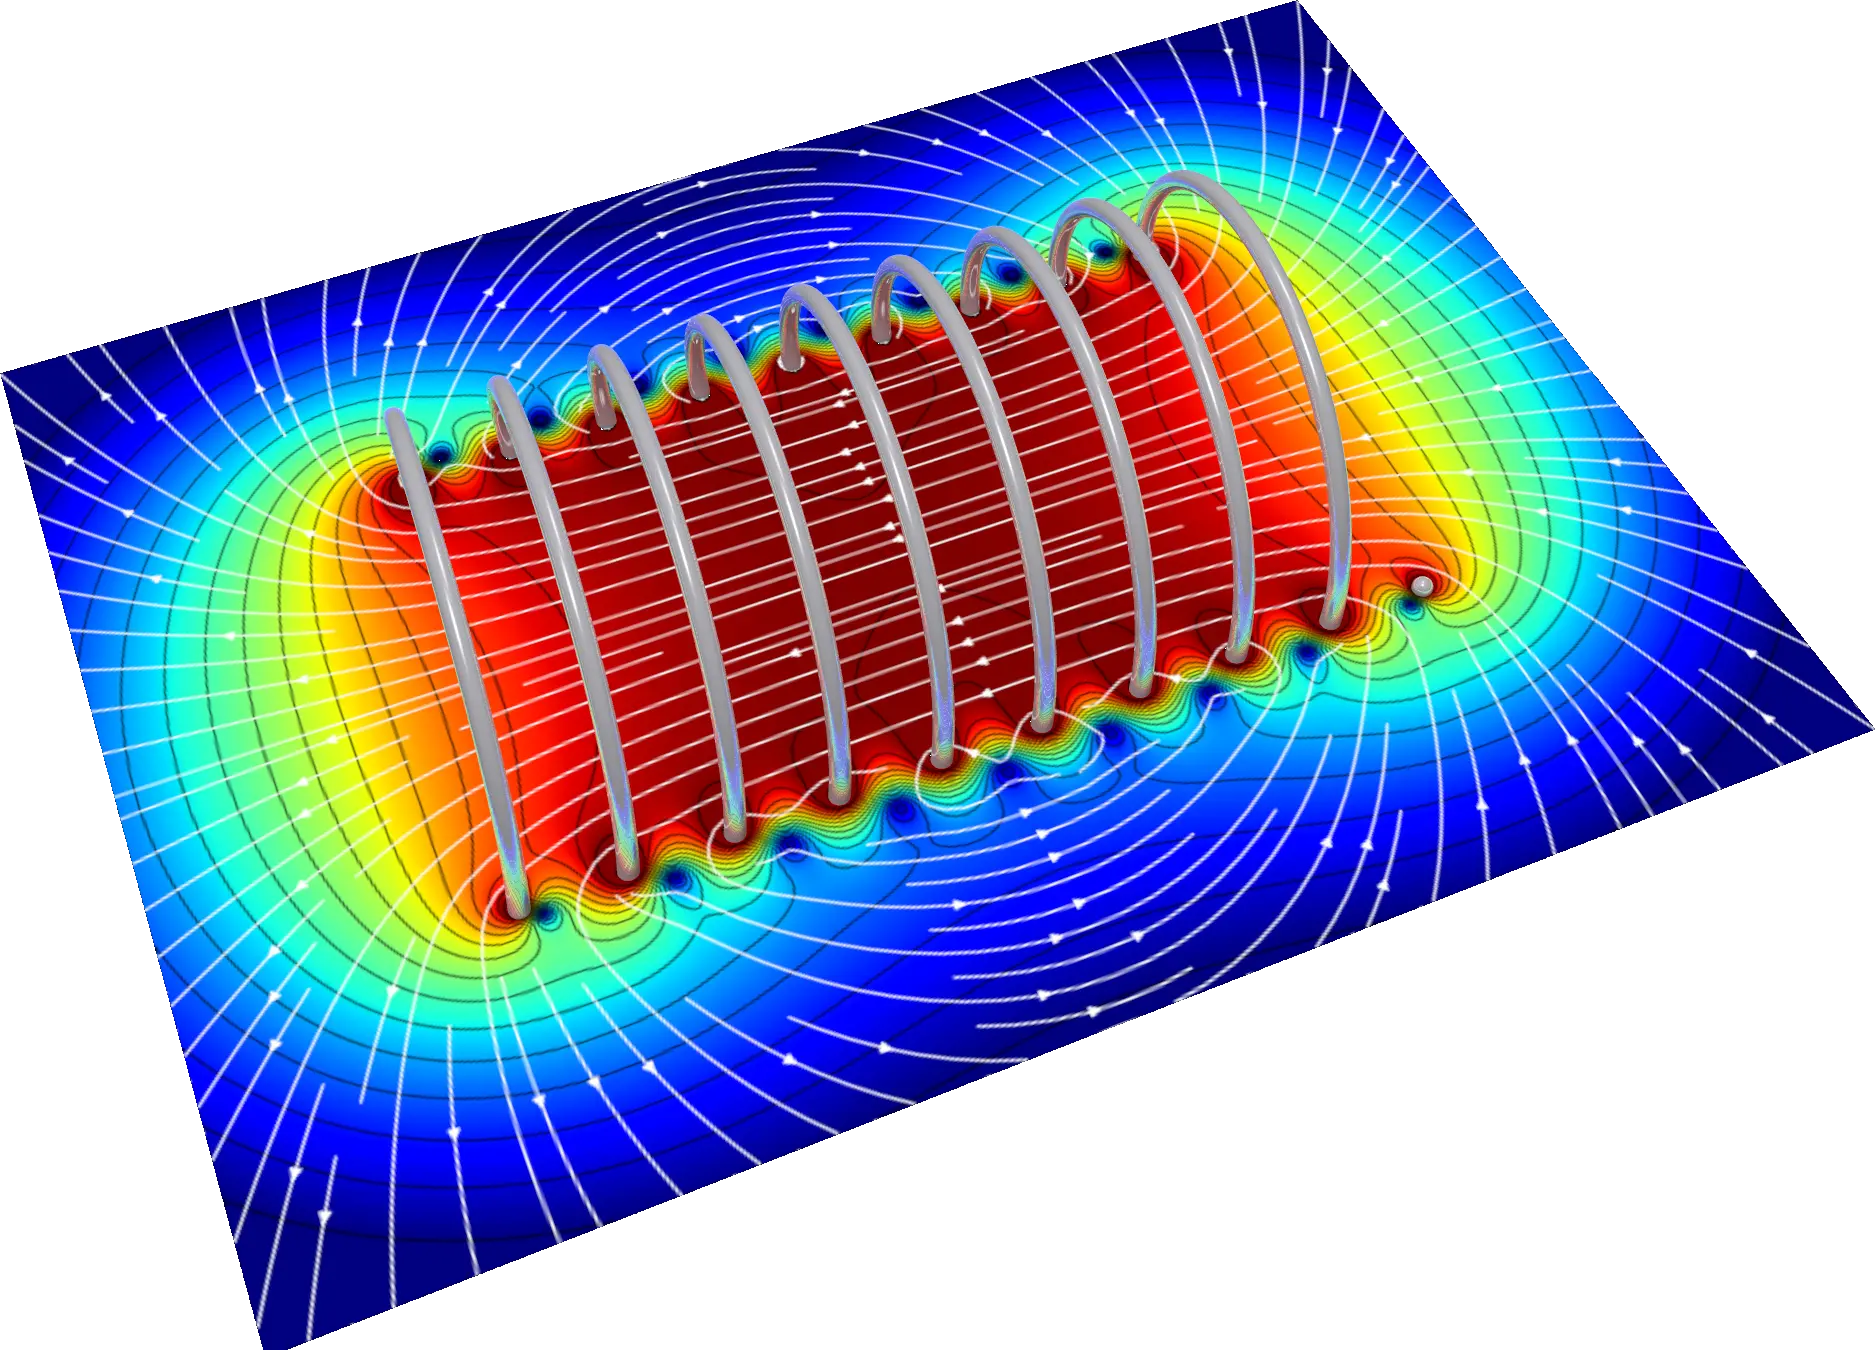
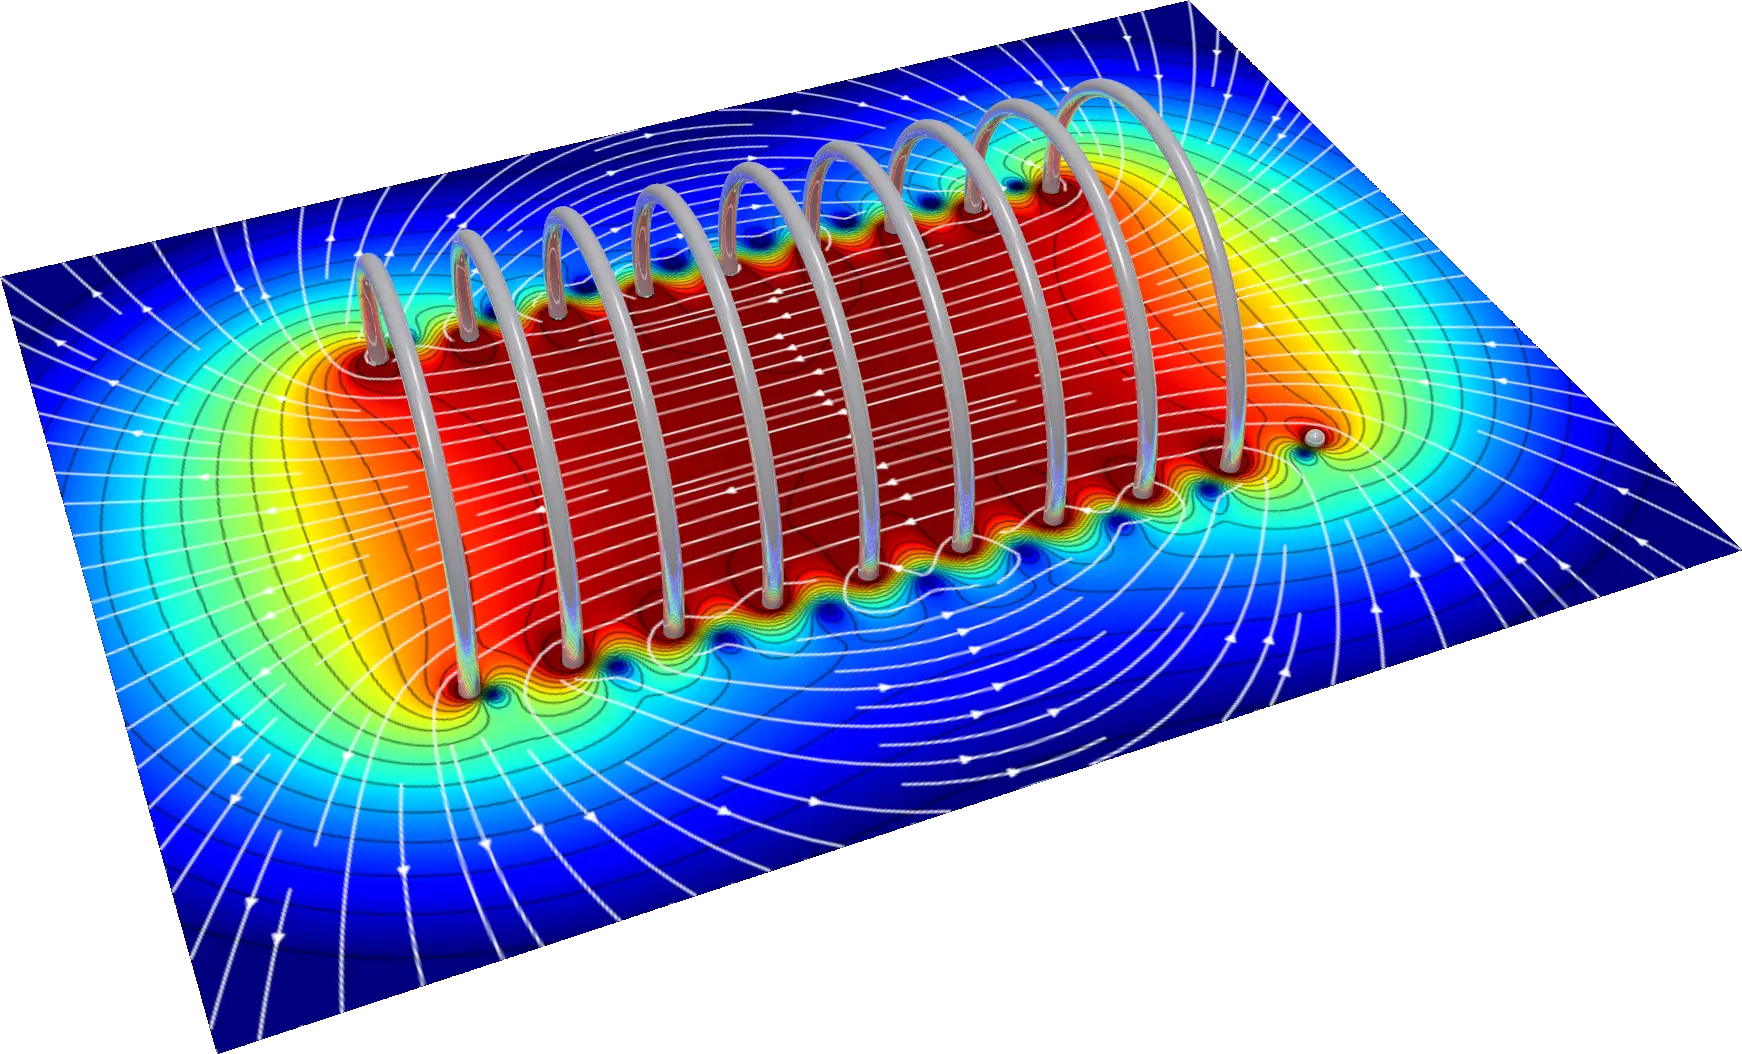
Adjust helix POV-Ray camera: lower and move farther
- Lower camera by 1/3 (y: 7.62 → 5.08 → 6.77)
- Move camera 1/3 farther along optical axis

🤖 Generated with [Claude Code](https://claude.com/claude-code)

diff --git a/examples/helix_povray.py b/examples/helix_povray.py
@@ -169,7 +169,7 @@ global_settings {{
 // Camera - top-down view with slight angle
 // Looking down at the horizontal quad (table view)
 camera {{
-    location <5.46, 7.62, -2.29>
+    location <7.28, 6.77, -3.05>
     look_at <0, 0, 0>
     angle 60
     right x * image_width / image_height
